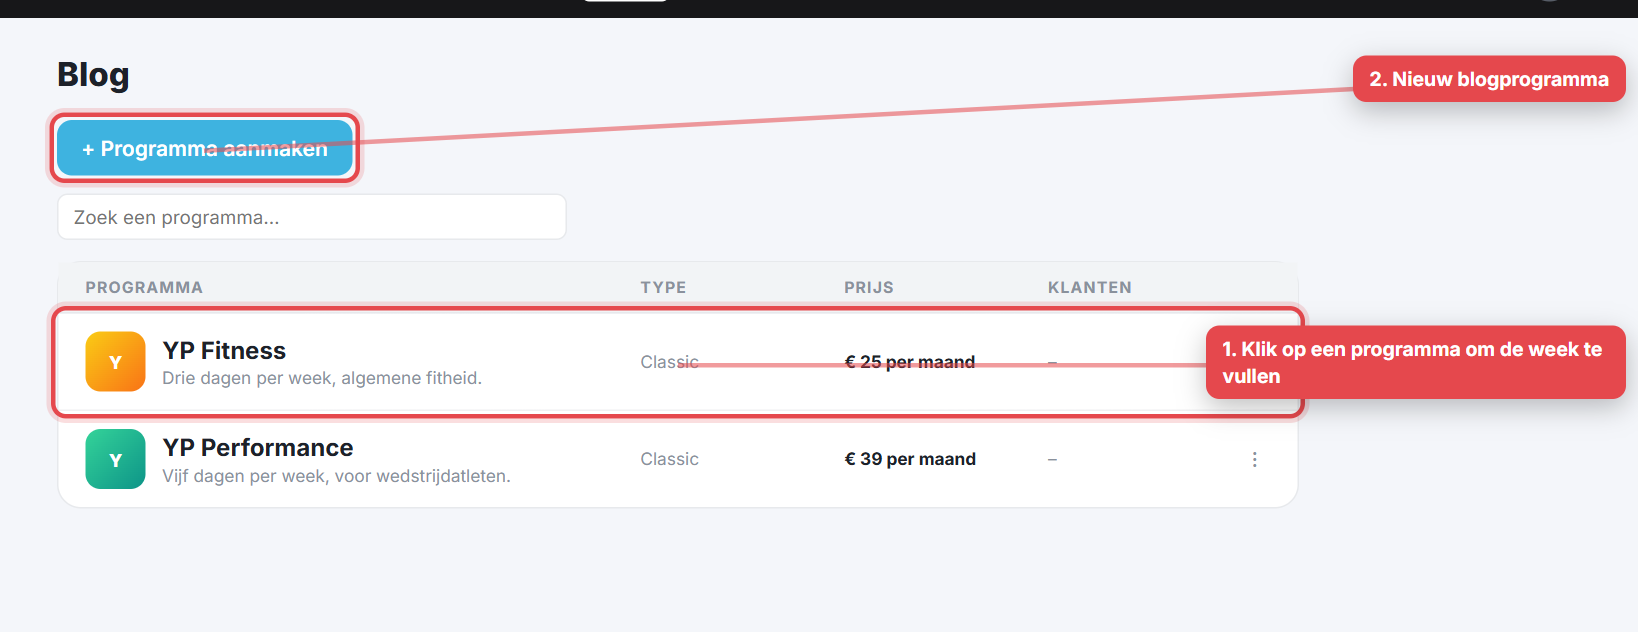
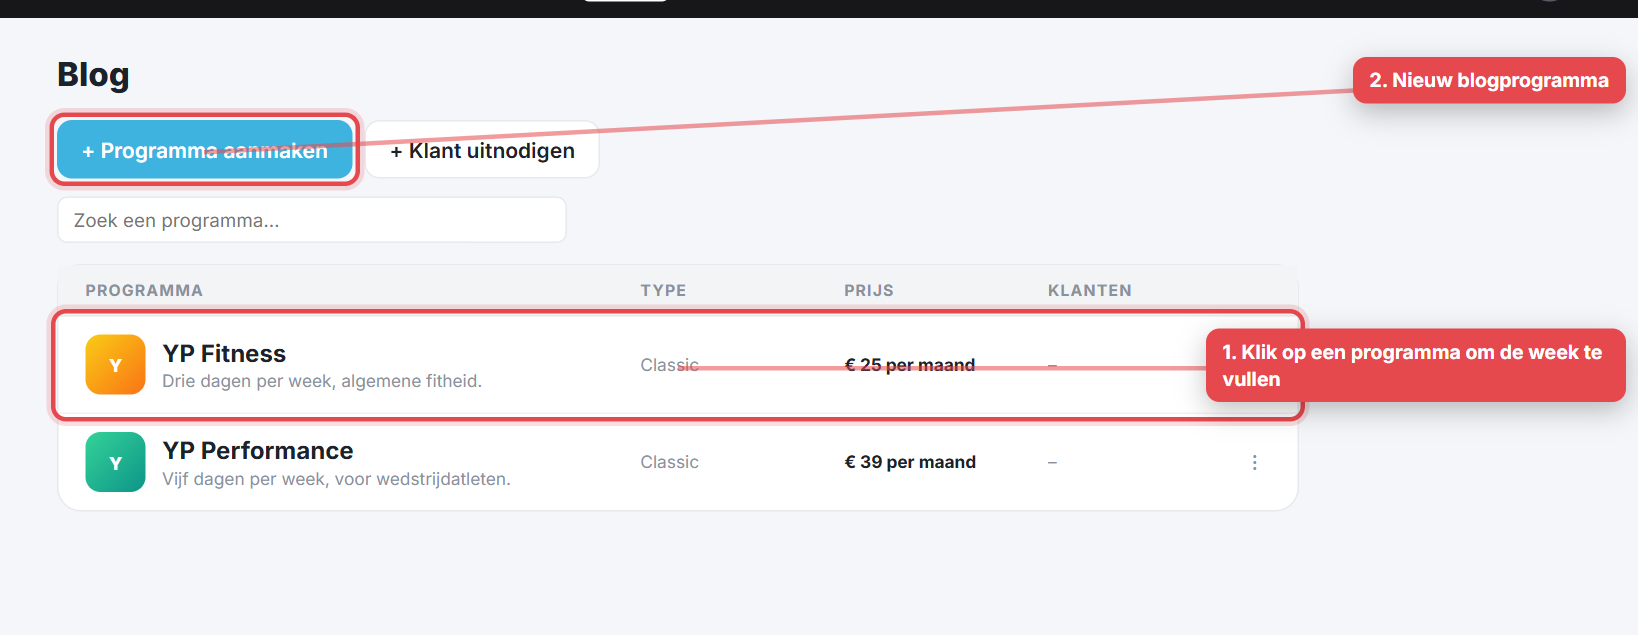
Klant toevoegen is altijd 1-op-1; blogklant nodig je uit bij Blog
Bij Klanten is de keuze Lidmaatschap weg: wie je daar uitnodigt wordt
altijd een 1-op-1 klant. In plaats van de keuzelijst staat er nu een
regeltje dat zegt wat voor klant het wordt.

Op de Blog-pagina staat een knop "+ Klant uitnodigen", zowel in de lijst
als boven een open programma. Die nodigt altijd een gratis blog-lid uit, en
staat er een programma open, dan wordt hij daar direct aan gekoppeld
(blog_program_members). Lukt dat koppelen niet, dan zegt de melding dat je
het via Leden koppelen moet doen.

Handleiding-tekst en de screenshots klanten-02 en blog-01 zijn meegegaan.

diff --git a/app/klanten.js b/app/klanten.js
@@ -544,15 +544,31 @@ async function coachVerwijder(id,klanten){
 }
 document.addEventListener("click",e=>{if(!e.target.closest(".coachmenu")&&!e.target.closest(".crow")&&!e.target.closest(".kebab"))document.querySelectorAll(".coachmenu").forEach(x=>x.remove());});
 
-// ---------- Uitnodigen (klant of coach) via de invites-tabel ----------
-let invRol="lid";
+// ---------- Uitnodigen (klant, blogklant of coach) via de invites-tabel ----------
+// Drie soorten, elk vanaf zijn eigen plek (verzoek Stefan 25 juli):
+//   "lid"   = Klanten > + Klant toevoegen  -> altijd een 1-op-1 klant
+//   "blog"  = Blog > + Klant uitnodigen    -> altijd een gratis blog-lid, en als
+//             er een programma open staat wordt hij daar direct aan gekoppeld
+//   "coach" = Coaches > + Coach toevoegen
+let invRol="lid",invBlog=false,invBlogProgram=null,invBlogProgramNaam="";
 async function openInvModal(rol){
-  ensureLibModals();invRol=rol;
+  ensureLibModals();
+  invBlog=rol==="blog";
+  invRol=rol==="coach"?"coach":"lid";
+  // Vanuit de Blog-sectie: koppel de nieuwe blogklant meteen aan het geopende programma.
+  invBlogProgram=null;invBlogProgramNaam="";
+  if(invBlog&&typeof BLOG!=="undefined"&&BLOG&&BLOG.cur){invBlogProgram=BLOG.cur.id;invBlogProgramNaam=BLOG.cur.name||"";}
   // Vanuit een coach-klantenlijst wordt de nieuwe klant automatisch aan die coach gekoppeld (geen keuze nodig).
-  const bijCoach=rol!=="coach"&&!!klantCoachFilter;
-  document.getElementById("inv-titel").textContent=rol==="coach"?"Coach toevoegen":(bijCoach?"Klant toevoegen bij "+klantCoachNaam:"Klant toevoegen");
+  const bijCoach=invRol==="lid"&&!invBlog&&!!klantCoachFilter;
+  document.getElementById("inv-titel").textContent=rol==="coach"?"Coach toevoegen"
+    :(invBlog?"Klant uitnodigen voor de blog":(bijCoach?"Klant toevoegen bij "+klantCoachNaam:"Klant toevoegen"));
   document.getElementById("inv-coach-veld").style.display=(rol==="coach"||bijCoach)?"none":"";
-  document.getElementById("inv-lid-veld").style.display=rol==="coach"?"none":"";
+  const uitleg=document.getElementById("inv-uitleg");
+  if(uitleg)uitleg.textContent=rol==="coach"?""
+    :(invBlog
+      ? (invBlogProgramNaam?"Wordt een gratis blog-lid en volgt direct "+invBlogProgramNaam+"."
+                           :"Wordt een gratis blog-lid. Koppel hem daarna via Leden koppelen aan een programma.")
+      : "Wordt een 1-op-1 klant met zijn eigen programma.");
   ["inv-vn","inv-an","inv-email"].forEach(id=>document.getElementById(id).value="");
   document.getElementById("inv-result").style.display="none";
   document.getElementById("inv-maak").style.display="";
@@ -574,8 +590,8 @@ async function invAanmaken(){
   const knop=document.getElementById("inv-maak");if(knop)knop.disabled=true;
   const body={actie:"aanmaken",rol:invRol,email:em,first_name:vn||null,last_name:an||null};
   if(invRol!=="coach"){
-    body.coach_id=klantCoachFilter||document.getElementById("inv-coach").value||null;
-    body.membership_type=document.getElementById("inv-type").value;
+    body.coach_id=(!invBlog&&klantCoachFilter)||document.getElementById("inv-coach").value||null;
+    body.membership_type=invBlog?"free_blog":"one_on_one";
   }
   const{data,error}=await db.functions.invoke("invite-account",{body});
   if(knop)knop.disabled=false;
@@ -587,12 +603,25 @@ async function invAanmaken(){
   document.getElementById("inv-link").value=location.origin+location.pathname+"?invite="+data.token;
   document.getElementById("inv-result").style.display="";
   document.getElementById("inv-maak").style.display="none";
-  msg.className="msg ok";
-  msg.textContent=invRol==="coach"?"De coach staat klaar; de uitnodigingsmail is onderweg.":"De klant staat nu al in je klantenlijst en je kunt direct programmeren.";
+  // Blogklant meteen aan het geopende programma koppelen.
+  let koppelFout="";
+  if(invBlog&&invBlogProgram&&data.profile_id){
+    const{error:ke}=await db.from("blog_program_members").insert({
+      company_id:ME.profile.company_id,blog_program_id:invBlogProgram,athlete_id:data.profile_id,
+    });
+    if(ke)koppelFout=" Koppelen aan het programma lukte niet ("+(ke.message||"onbekende fout")+"); doe het via Leden koppelen.";
+  }
+  msg.className=koppelFout?"msg err":"msg ok";
+  msg.textContent=invRol==="coach"
+    ? "De coach staat klaar; de uitnodigingsmail is onderweg."
+    : (invBlog
+      ? ((invBlogProgramNaam?"De blogklant volgt nu "+invBlogProgramNaam+"; ":"De blogklant staat klaar; ")+"de uitnodigingsmail is onderweg."+koppelFout)
+      : "De klant staat nu al in je klantenlijst en je kunt direct programmeren.");
   // Lijst meteen verversen zodat de nieuwe klant/coach er direct tussen staat.
   try{
     coachClients=[];await ensureClients();
     if(invRol==="coach"){if(typeof fillCoaches==="function")await fillCoaches();}
+    else if(invBlog){if(typeof fillBlog==="function")await fillBlog();}
     else if(typeof fillKlanten==="function")await fillKlanten();
   }catch(e){}
 }

diff --git a/app/help.js b/app/help.js
@@ -44,7 +44,7 @@ const HELP_HOOFDSTUKKEN=[
        tekst:"1 vier cijfers over je hele klantenbestand: hoeveel actieve klanten je hebt, de gemiddelde compliance (met een keuzelijst voor de periode), de consult-rate over 30 dagen en hoeveel klanten je deze week gesproken hebt. 2 het zoekveld gaat over de naam. 3 met Kies tag filter je de lijst op een of meer tags. 4 hier nodig je een nieuwe klant uit. 5 schakel tussen je actieve klanten en je archief. In de tabel staat per klant zijn eerstvolgende of gemiste workout, zijn compliance en zijn tags; klik op een rij om hem te openen."},
       {titel:"Een klant uitnodigen",
        img:"img/help/klanten-02-toevoegen.png",
-       tekst:"Klik op + Klant toevoegen en vul naam en e-mailadres in. Kies de coach en of het een betalende 1-op-1 klant is of een gratis blog-lid. Als je op Uitnodiging aanmaken klikt, wordt het account meteen aangemaakt en krijgt je klant een mail waarin hij alleen nog een wachtwoord kiest. Hij staat direct in je lijst met het label Uitnodiging open, dus je kunt al voor hem programmeren."},
+       tekst:"Klik op + Klant toevoegen, vul naam en e-mailadres in en kies de coach. Iedereen die je hier uitnodigt wordt een 1-op-1 klant met zijn eigen programma; een gratis blog-lid nodig je uit bij Blog. Als je op Uitnodiging aanmaken klikt, wordt het account meteen aangemaakt en krijgt je klant een mail met drie stappen: wachtwoord kiezen, app installeren, inloggen. Hij staat direct in je lijst met het label Uitnodiging open, dus je kunt al voor hem programmeren."},
       {titel:"Werken met tags",
        img:"img/help/klanten-03-tags.png",
        tekst:"Tags zijn labels die je zelf maakt, bijvoorbeeld Wedstrijd, Blessure of Maandag. Klik op de + achter een klant en vink een tag aan of uit. Onderin het venstertje maak je een nieuwe tag met een eigen kleur; die staat daarna meteen in de tag-kiezer bovenaan. Filteren doe je met Kies tag naast het zoekveld: elke tag die je aanvinkt komt eronder als chip te staan en die haal je met het kruisje weer weg. Kies je twee tags, dan blijven alleen de klanten over die ze beide hebben, dus je filter wordt smaller in plaats van breder. Zolang er een tag aanstaat, krijgt elke rij een rondje om af te strepen terwijl je programmeert. Met Tags beheren hernoem je tags, geef je ze een andere kleur of gooi je ze weg."},
@@ -107,7 +107,7 @@ const HELP_HOOFDSTUKKEN=[
     stappen:[
       {titel:"Je blogprogramma's",
        img:"img/help/blog-01-programmas.png",
-       tekst:"Elk programma heeft een naam, een korte omschrijving, een type en een prijs die je alleen laat zien (betalen loopt nog buiten de app om). De kolom Klanten telt hoeveel leden het volgen. Klik op een programma om de week te vullen."},
+       tekst:"Elk programma heeft een naam, een korte omschrijving, een type en een prijs die je alleen laat zien (betalen loopt nog buiten de app om). De kolom Klanten telt hoeveel leden het volgen. Klik op een programma om de week te vullen. Met + Klant uitnodigen zet je hier een gratis blog-lid klaar; staat er een programma open, dan volgt hij dat programma direct."},
       {titel:"De week vullen",
        img:"img/help/blog-02-week.png",
        tekst:"Je ziet één week van maandag tot zondag, met brede kolommen zodat de hele workout leesbaar is. Blader met de pijltjes of spring terug met Vandaag. Klik op + Toevoegen in een dag en je krijgt hetzelfde dag-menu als bij een klant. Met Leden koppelen kies je wie dit programma volgt; een lid volgt er één tegelijk."},

diff --git a/app/blog.js b/app/blog.js
@@ -39,7 +39,9 @@ function blogGaNaar(id){
 function blogRender(){
   const cp=document.getElementById("cpage");if(!cp)return;
   if(BLOG.cur){blogDetailRender();return;}
-  cp.innerHTML='<div class="progedit"><div class="hrow"><h1>Blog</h1><button class="btn" onclick="blogpModal(null)">+ Programma aanmaken</button></div>'+
+  cp.innerHTML='<div class="progedit"><div class="hrow"><h1>Blog</h1>'+
+    '<div style="display:flex;gap:8px"><button class="btn" onclick="blogpModal(null)">+ Programma aanmaken</button>'+
+    '<button class="btn ghost" onclick="openInvModal(\'blog\')">+ Klant uitnodigen</button></div></div>'+
     '<div style="margin:12px 0 14px"><input class="lid-in" id="blog-zoek" placeholder="Zoek een programma…" style="width:100%;max-width:340px" oninput="blogZoek(this.value)" value="'+esc(BLOG.zoek)+'"></div>'+
     '<div class="card">'+
       '<div class="thead"><div style="flex:2.6">Programma</div><div style="flex:.9">Type</div><div style="flex:.9">Prijs</div><div style="flex:.7">Klanten</div><div style="width:40px"></div></div>'+
@@ -227,7 +229,7 @@ function blogDetailRender(){
   cp.innerHTML='<div class="progedit">'+
     '<div class="pe-top"><button class="btn ghost sm" onclick="blogTerug()">‹ Terug</button>'+
       '<div class="pe-badges"><span class="cpill">'+esc(blogTypeNL(p.type))+'</span><span class="cpill">'+(p.price_text?esc(p.price_text):"Gratis")+'</span><span class="cpill teal">'+n+" klant"+(n===1?"":"en")+'</span></div>'+
-      '<div style="margin-left:auto;display:flex;gap:8px"><button class="btn ghost sm" onclick="blogLedenOpen()">Leden koppelen</button><button class="btn ghost sm" onclick="blogpModal(\''+p.id+'\')">Details bewerken</button></div></div>'+
+      '<div style="margin-left:auto;display:flex;gap:8px"><button class="btn ghost sm" onclick="openInvModal(\'blog\')">+ Klant uitnodigen</button><button class="btn ghost sm" onclick="blogLedenOpen()">Leden koppelen</button><button class="btn ghost sm" onclick="blogpModal(\''+p.id+'\')">Details bewerken</button></div></div>'+
     '<div class="pe-weeks" style="margin-top:10px;align-items:center">'+
       '<h1 style="margin:0;font-size:20px">'+esc(maandNaam)+'</h1><span class="muted" style="font-weight:700;font-size:13px;margin-left:4px">Week '+isoWeek(midden)+'</span>'+
       '<button class="btn ghost sm" style="margin-left:14px" onclick="blogWeekGa(0)">Vandaag</button>'+

diff --git a/app/bibliotheek.js b/app/bibliotheek.js
@@ -93,7 +93,9 @@ function ensureLibModals(){
       '<div class="field"><label>Achternaam</label><input id="inv-an"></div>'+
       '<div class="field"><label>E-mailadres</label><input id="inv-email" type="email" placeholder="naam@voorbeeld.nl"></div>'+
       '<div class="field" id="inv-coach-veld"><label>Coach</label><select id="inv-coach"></select></div>'+
-      '<div class="field" id="inv-lid-veld"><label>Lidmaatschap</label><select id="inv-type"><option value="one_on_one">1-op-1 klant</option><option value="free_blog">Gratis blog-lid</option></select></div>'+
+      // Lidmaatschap staat niet meer in het venster: via Klanten nodig je altijd
+      // een 1-op-1 klant uit, via Blog altijd een blog-lid (verzoek Stefan 25 juli).
+      '<div class="sm muted" id="inv-uitleg" style="margin:-4px 0 12px"></div>'+
       '<div id="inv-result" style="display:none;margin-bottom:12px"><div class="sm" style="margin-bottom:6px;font-weight:700">Uitnodigingslink (14 dagen geldig)</div><div style="display:flex;gap:6px"><input id="inv-link" readonly style="flex:1;font-size:11.5px"><button class="btn sm" onclick="kopieerInvLink()">Kopieer</button></div><div class="sm muted" style="margin-top:6px">De klant krijgt deze link automatisch per e-mail (binnen een minuut). Je kunt hem hier ook kopiëren om zelf te sturen, bijvoorbeeld via WhatsApp.</div></div>'+
       '<div style="display:flex;gap:8px"><button class="btn" id="inv-maak" onclick="invAanmaken()">Uitnodiging aanmaken</button><button class="btn ghost" onclick="document.getElementById(\'invmodal\').classList.remove(\'show\')">Sluiten</button></div>'+
       '<div class="msg" id="inv-msg"></div></div></div>';
